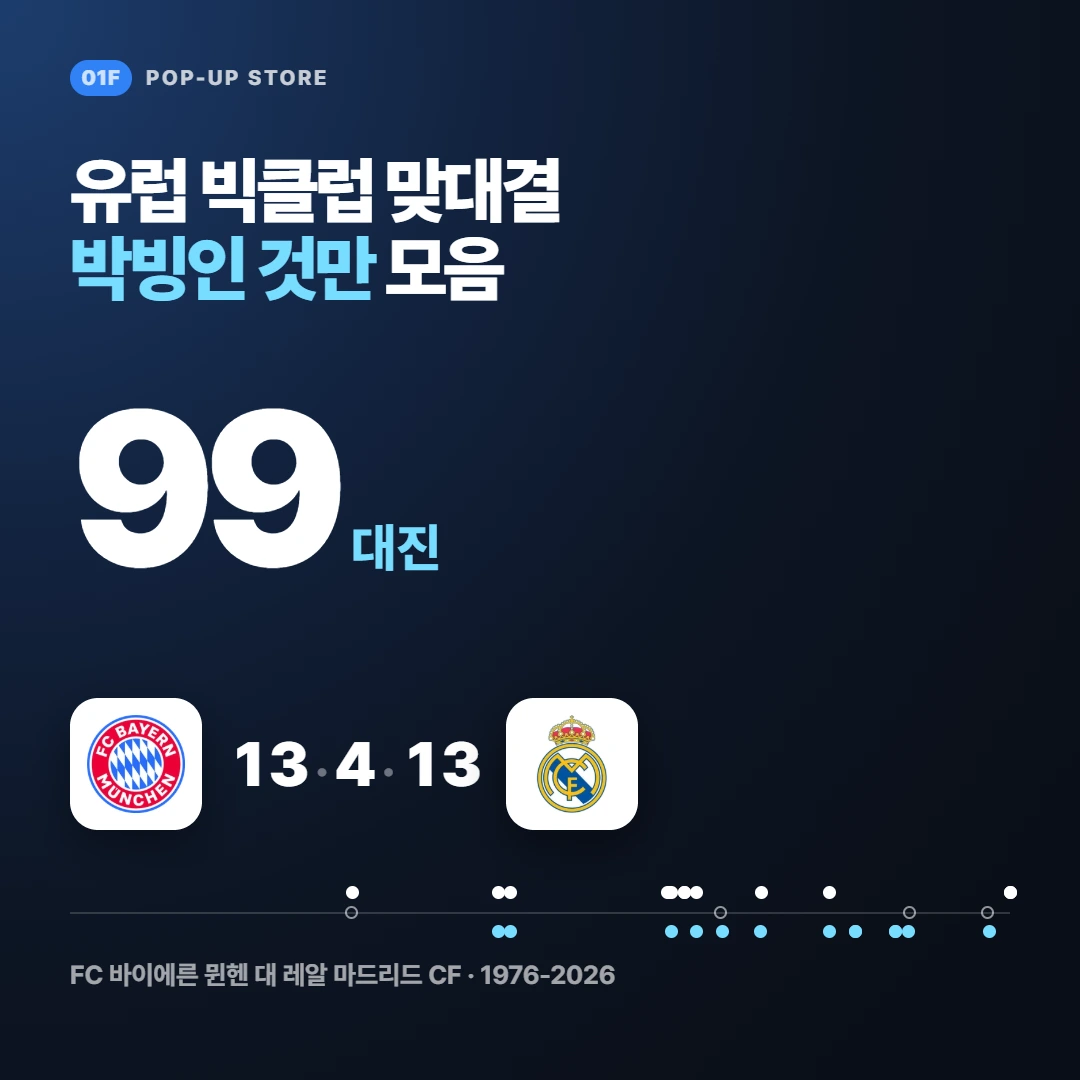
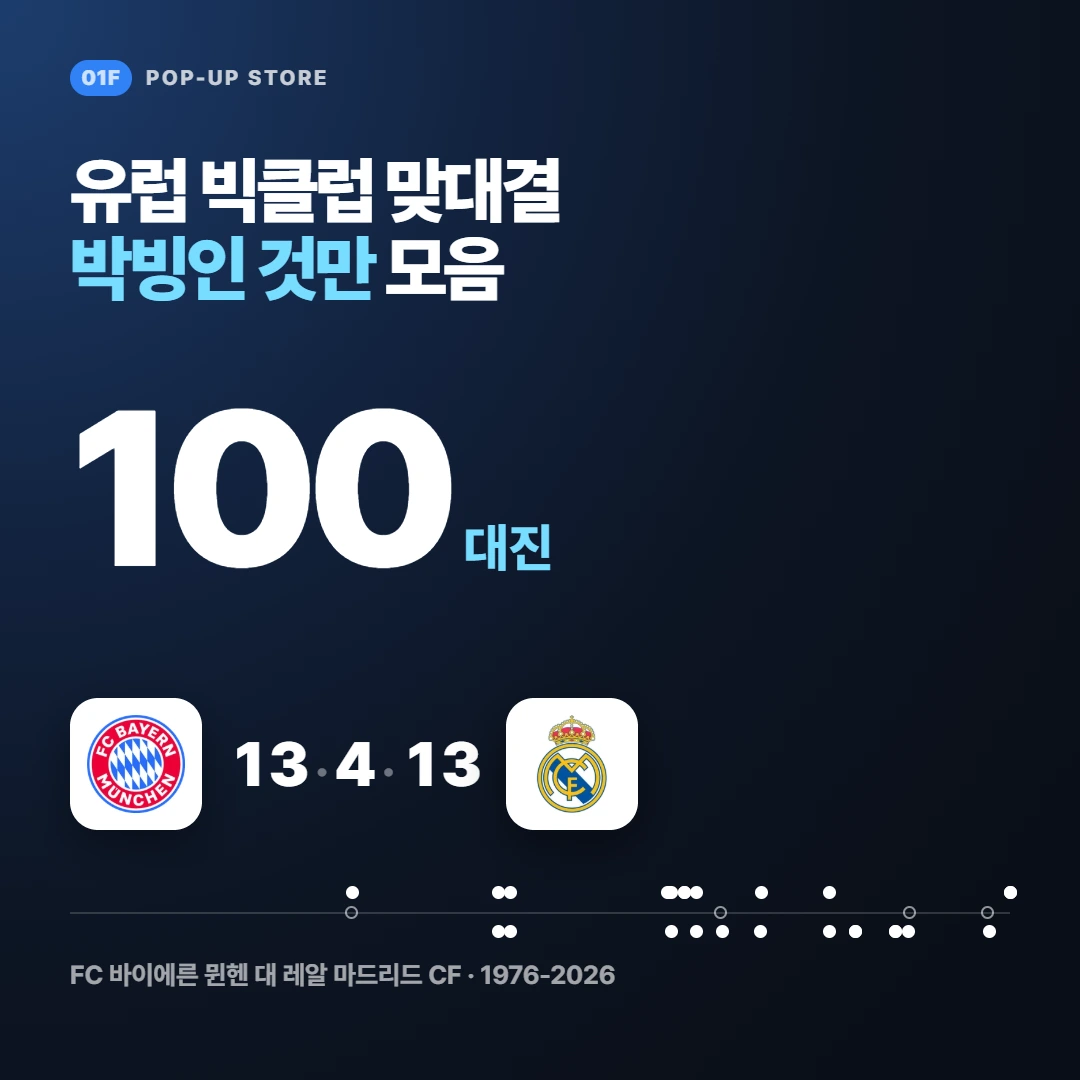
박빙 팝업: 빠졌던 두 구단 표기 교정 재수집, 카드 색을 하나로 통일
- St-Étienne·GNK Dinamo 표기를 찾아 재수집. 셀틱-디나모 자그레브가 들어와 100대진
- 대회별로 갈리던 카드 색을 팝업 하나의 네이비로 통일(한 대진이 여러 대회에 걸쳐 색이 들쭉날쭉했음)
- 썸네일의 연대 막대 점도 양쪽 같은 흰 점으로

diff --git a/src/styles/popup-rivalries.css b/src/styles/popup-rivalries.css
@@ -3,6 +3,10 @@
 .rv-hero .dg-hero__eyebrow span { background: var(--bbfc-blue); }
 .rv-page .dg-section__head p { color: var(--bbfc-blue); }
 
+/* 카드 색(운영자 지시, 2026-09-16): 대회별로 나누지 않고 이 팝업 하나의 색으로 통일한다. */
+.dg-card--rivalry { --dg-night: #0b1526; --dg-accent: #6fb4ff; --dg-soft: #c3d6f0; --dg-line: rgba(180,208,245,.2); border-color: rgba(110,160,235,.3); }
+.dg-card--rivalry::before { background: radial-gradient(circle at 8% 16%, rgba(70,150,255,.3), transparent 38%), radial-gradient(circle at 94% 86%, rgba(255,255,255,.07), transparent 34%), linear-gradient(132deg, #081020 0%, #12294b 46%, #1b3f6e 72%, #0b1526 100%); }
+
 /* 스코어 자리에 놓는 승·무·패 */
 .rv-score strong { gap: 2px; }
 .rv-score strong b { font-variant-numeric: tabular-nums; }

diff --git a/HANDOFF.md b/HANDOFF.md
@@ -15,7 +15,7 @@
 - **Camp Nou 표기 통일 (Claude, 2026-09-15):** 운영자 확정("캄 노우로 해야지, 그럴 거면 원어 고증 발표한 이유가 없다")으로 바르셀로나 축행(제목·태그·FAQ·본문 25곳)과 이강인 축행 1곳의 `캄프 누`를 `캄 노우`로 바꿨다. 글쓰기 검수에 `캄프 누`·`캄노우` 차단 규칙을 추가했고 CLAUDE.md 표기 규칙에 적었다. 아래 옛 기록의 `캄프 누`는 당시 표기다.
 - **밀라노 커플 축행 발행 (Claude, 2026-09-15):** `/pilgrimage/milan-san-siro-couple-fashion-football-travel/`. 제목은 운영자 지시로 검색어형 `밀라노 축구 여행 2박 3일: 산 시로 직관, 숙소, 쇼핑, 나빌리 코스`로 바꿨다(처음 발행 제목 `축구 안 좋아하는 연인과 밀라노 여행…`은 검색되지 않는다는 지적). slug는 발행 후 유지. 같은 날 운영자 지적("소제목이 유치하다, 너무 AI 같다, 영국 매거진 번역체다, 정보가 솔직히 없다")으로 정보 중심 개편: 소제목을 요즘 한국 웹 말투로 바꾸되 약속한 목록을 실제로 채웠다(숙소 3곳, 티켓 판매처·선예매·실명제·아넬로와 색 구역, 올해 바뀐 입구와 역, 경기 전후 식당 4곳 La Pesa·El Patio del Gaucho 사네티·Ribot·노점 파니노, 쇼핑 7곳 Prada Galleria·Marchesi·몬테나폴레오네·Rinascente 7층·10 Corso Como·Inter Store·Milan Store, 아페리티보 5곳 Camparino·Mag Café·Backdoor 43·Rita·El Brellin, 2박 3일 동선). Excelsior Milano는 2018년 폐점이라 제외했다. 지도 핀 23곳. 새 부품 `ol.journey-spots`(번호·이름 링크·주소와 거리·설명 카드)와 축행 본문 직속 `ul` 스타일을 `src/pages/[...path].astro`에 추가했다. 시간 범위는 마크다운 취소선이 되지 않게 `12:00-15:00`처럼 하이픈으로 쓴다. 운영자가 축행을 10편까지 채우기로 하고, AI 검색이 대체하기 쉬운 경기장 근처 호텔 목록형을 버린 뒤 **축구를 안 좋아하는 연인과 가는 축구 여행**(누구와 무슨 이유로 가는 여행인가) 방향을 골랐다(운영자 확정, 2026-09-15: 역사 현장 답사형은 반려). 첫 편 밀라노는 첫날 동행인의 패션 거리(갈레리아 1913 프라다 첫 매장·캄파리노 1915·마르케시·콰드릴라테로·팔라초 모란도 CNMI 허브, 2026 패션위크 9/22~28), 경기일 낮 바 루체, 밤 산 시로(실명 티켓·쿠르바 피하기·2026-27 공사로 7~10번 입구 폐쇄·M1 로토 권장·M5 종점·트램 16·파니노 콘 살라멜라·박물관 6번 게이트), 셋째 날 나빌리오 그란데로 짰다. 숙소 3곳(Meliá Milano 로토·Hotel VIU Milan 모누멘탈레 M5 직통·Senato Hotel Milano 패션 거리)은 공식 채널로 주소·역 거리를 확인했고, 호텔 사진은 받을 수 있던 Senato 공식 사진만 쓰고 나머지 둘은 숙소 주변·경기장 사진으로 역할을 밝혔다. 아레나 치비카 ARCHIVE NOTE로 페어스컵 본선 편과 연결, 그란데 인테르·미야오 안나 인테르·토리노 축행으로 역링크. Leaflet 지도 핀 14곳, UGC 브이로그 The Bello Bros(O-0ITAaEkFE). 자산 스크립트 `scripts/build-milan-san-siro-couple-travel-assets.mjs`, 화면 검수 `scripts/qa-milan-couple-travel.mjs`. 축행 공개 글은 8편이며 목표 10편까지 두 편 남았다. 다음 후보 도시는 같은 방향(동행인의 도시 + 경기 하루)으로 운영자와 정한다.
 - **배포 중단 3건과 원인 (Claude, 2026-09-16):** 운영자가 "홈페이지 난 안 보이는데"라고 해 확인한 결과 프로덕션이 `2e64412`에 멈춰 있었다. GitHub Actions `Scheduled deploy`가 `46c79b8`·`b6c2924`·`d5e898d` 세 번 연속 실패했고, 실패 지점은 `Verify production deployment`였다. 배포 훅 호출까지는 성공하므로 Cloudflare Pages 빌드 자체가 깨진 것이다. 원인은 `46c79b8`에서 `functions/api/goat/_shared.js`에 붙인 `with { type: 'json' }`다. Node 24에서 로컬 GOAT 검수 스크립트를 되살리려고 넣었는데 Cloudflare Pages Functions 번들러가 이 import 속성을 처리하지 못한다. `ad57036`에서 되돌려 배포가 정상화됐고(`bbingefc.com` 홈·팝업관·팝업 페이지 200 확인), `scripts/test-goat-validation.mjs`는 Node 24에서 실행되지 않는 원래 상태로 돌아갔다. **functions/ 아래 파일에는 Cloudflare Workers 런타임이 지원하지 않는 최신 문법을 넣지 않는다. 로컬 스크립트 편의를 위해 배포 경로의 파일을 고치지 않는다.** 배포가 멈췄는지는 `https://bbinge-fc.pages.dev/deploy.json`의 commit과 최신 커밋을 대조해 확인한다. 같은 확인에서 홈 최근 입고의 NEW 배지가 안 뜨던 것도 찾았다. `isNewlyPublished`는 `pubDate`가 미래면 배지를 달지 않는데 팝업 발행 시각을 빌드 시점보다 뒤로 적어 둔 탓이었다(`d5e898d`에서 교정).
-- **팝업관 세 번째 팝업 「유럽 해외축구 빅클럽간 맞대결 역대전적 모음(박빙인 것만, 2026년 버전)」 (Claude, 2026-09-16):** `/popup/big-club-rivalries/`, 제목은 운영자 확정 문구 그대로다(`.Zip`과 ㄷㄷ 숫자를 붙이자고 제안했으나 운영자가 원안으로 확정). 운영자와 규칙을 먼저 세우고 들어갔다. **강팀 분류(운영자 확정):** 축구사 이래 역사적 강팀이면서 현대에도 가치가 우수한 구단. 잉글랜드 8(아스널·첼시·리버풀·맨유·맨시티·토트넘·리즈·에버턴), 스페인 5, 이탈리아 7(아탈란타·파르마 포함), 독일 6, 프랑스 6, 포르투갈 3, 네덜란드 3, 스코틀랜드 2, 튀르키예 2, 벨기에 2, 그리스 2, 우크라이나 2, 러시아 3(운영자 확정으로 남김), 세르비아·체코·크로아티아 각 1. **규칙:** 유럽 대항전(유러피언컵·챔스, UEFA컵·유로파, 컵위너스컵) 전 시즌 맞대결만 세고 국내 경기는 세지 않는다(UEFA 기록 밖). 맞대결 6경기 이상 + 승패 차 1 이내 + 득실 차가 맞대결 수보다 작을 것. 8경기 이상은 카드, 6~7경기는 표. 승부차기는 UEFA 기록대로 무승부. 인터시티스 페어스컵·컨퍼런스 리그 제외. 컷은 8경기(51개)와 6경기(99개)를 놓고 운영자가 6경기로 내리되 층을 나누는 쪽을 골랐다. **결과:** 박빙 99대진, 맞대결 814경기, 45개 구단. 대표 대진은 FC 바이에른 뮌헨 30경기 13승 4무 13패 레알 마드리드 CF(48:49, 1976-2026)로 유럽 대항전 최다 맞대결이면서 가장 반반이다. **연대 막대(운영자 확정, 새 시각 문법):** 1955-2026 가로축에 맞대결을 점으로 찍고 위 칸은 왼쪽 팀 승, 아래 칸은 오른쪽 팀 승, 가운데 줄은 무승부다. 결승 경기는 점을 키운다. 둔기론의 흰 막대, 역전극의 열세 빗금에 이어지는 세 번째 문법이다. 처음에는 왼쪽 팀 승리를 흰 점, 오른쪽 팀 승리를 하늘색 점으로 했는데 운영자 지적("둘 다 박빙인데 바이언쪽만 색이 진하다")으로 **양쪽을 같은 흰 점으로 통일**했다. 어느 팀이 이겼는지는 위아래 위치가 말하므로 색으로 또 가르면 한쪽이 세 보인다. 같은 지적을 확인하다 카드의 `기간`이 51년으로 나오던 것도 고쳤다(첫 맞대결에서 마지막까지 지난 햇수로 계산해 1976-2026은 50년, 서두 문장과 일치). **파일:** `scripts/fetch-rivalries-sources.mjs`(UEFA 전 시즌 사웹, 빅클럽 쌍만 저장) → `src/data/popup/rivalries-sources.json`, 문장 `scripts/build-rivalries-assets.mjs`(45개), 가공 `src/data/popup/rivalries.ts`, 컴포넌트 `RivalryCard`·`RivalryTimeline`·`RivalryTable`, 스타일 `popup-rivalries.css`, 썸네일 `scripts/build-rivalries-thumbnail.mjs`(임시 제작, 운영자 썸네일이 오면 교체), 검수 `scripts/qa-rivalries.mjs`(380/1440, 연대 막대 점 수 = 승+무+패, 화면에서 규칙 재검산). 팝업관 목록·홈 최근 입고에 카드 추가. **미해결:** AS 생테티엔과 GNK 디나모 자그레브는 UEFA 기록에서 그 영문 표기로 잡히지 않아 수집에서 빠졌다(`missingClubs`). 두 팀 모두 6경기 이상 대진이 있을 수 있어 표기를 찾아 다시 넣을지 운영자 확인 대기. 스타드 드 랭스는 4경기 이상 만난 상대가 없어 구조적으로 등장하지 않는다.
+- **팝업관 세 번째 팝업 「유럽 해외축구 빅클럽간 맞대결 역대전적 모음(박빙인 것만, 2026년 버전)」 (Claude, 2026-09-16):** `/popup/big-club-rivalries/`, 제목은 운영자 확정 문구 그대로다(`.Zip`과 ㄷㄷ 숫자를 붙이자고 제안했으나 운영자가 원안으로 확정). 운영자와 규칙을 먼저 세우고 들어갔다. **강팀 분류(운영자 확정):** 축구사 이래 역사적 강팀이면서 현대에도 가치가 우수한 구단. 잉글랜드 8(아스널·첼시·리버풀·맨유·맨시티·토트넘·리즈·에버턴), 스페인 5, 이탈리아 7(아탈란타·파르마 포함), 독일 6, 프랑스 6, 포르투갈 3, 네덜란드 3, 스코틀랜드 2, 튀르키예 2, 벨기에 2, 그리스 2, 우크라이나 2, 러시아 3(운영자 확정으로 남김), 세르비아·체코·크로아티아 각 1. **규칙:** 유럽 대항전(유러피언컵·챔스, UEFA컵·유로파, 컵위너스컵) 전 시즌 맞대결만 세고 국내 경기는 세지 않는다(UEFA 기록 밖). 맞대결 6경기 이상 + 승패 차 1 이내 + 득실 차가 맞대결 수보다 작을 것. 8경기 이상은 카드, 6~7경기는 표. 승부차기는 UEFA 기록대로 무승부. 인터시티스 페어스컵·컨퍼런스 리그 제외. 컷은 8경기(51개)와 6경기(99개)를 놓고 운영자가 6경기로 내리되 층을 나누는 쪽을 골랐다. **결과:** 박빙 99대진, 맞대결 814경기, 45개 구단. 대표 대진은 FC 바이에른 뮌헨 30경기 13승 4무 13패 레알 마드리드 CF(48:49, 1976-2026)로 유럽 대항전 최다 맞대결이면서 가장 반반이다. **연대 막대(운영자 확정, 새 시각 문법):** 1955-2026 가로축에 맞대결을 점으로 찍고 위 칸은 왼쪽 팀 승, 아래 칸은 오른쪽 팀 승, 가운데 줄은 무승부다. 결승 경기는 점을 키운다. 둔기론의 흰 막대, 역전극의 열세 빗금에 이어지는 세 번째 문법이다. 처음에는 왼쪽 팀 승리를 흰 점, 오른쪽 팀 승리를 하늘색 점으로 했는데 운영자 지적("둘 다 박빙인데 바이언쪽만 색이 진하다")으로 **양쪽을 같은 흰 점으로 통일**했다. 어느 팀이 이겼는지는 위아래 위치가 말하므로 색으로 또 가르면 한쪽이 세 보인다. 같은 지적을 확인하다 카드의 `기간`이 51년으로 나오던 것도 고쳤다(첫 맞대결에서 마지막까지 지난 햇수로 계산해 1976-2026은 50년, 서두 문장과 일치). **파일:** `scripts/fetch-rivalries-sources.mjs`(UEFA 전 시즌 사웹, 빅클럽 쌍만 저장) → `src/data/popup/rivalries-sources.json`, 문장 `scripts/build-rivalries-assets.mjs`(45개), 가공 `src/data/popup/rivalries.ts`, 컴포넌트 `RivalryCard`·`RivalryTimeline`·`RivalryTable`, 스타일 `popup-rivalries.css`, 썸네일 `scripts/build-rivalries-thumbnail.mjs`(임시 제작, 운영자 썸네일이 오면 교체), 검수 `scripts/qa-rivalries.mjs`(380/1440, 연대 막대 점 수 = 승+무+패, 화면에서 규칙 재검산). 팝업관 목록·홈 최근 입고에 카드 추가. **표기 교정 재수집(같은 날, 운영자 지시):** 빠졌던 두 구단의 UEFA 표기를 찾아 다시 돌렸다. `St Etienne` → `St-Étienne`(하이픈과 악센트), `Dinamo Zagreb` → `GNK Dinamo`. `missingClubs` 0이 됐고 셀틱 FC 3승 1무 3패 GNK 디나모 자그레브(7경기, 9:9, 1963-2024)가 새로 들어와 **박빙 100대진**(카드 51, 표 49)이 됐다. AS 생테티엔은 이제 인식되지만 6경기 이상 박빙 대진이 없어 등장하지 않는다. **카드 색 통일(운영자 지시):** 처음에는 그 대진에서 가장 많이 만난 대회의 색을 따라 카드가 챔스 미드나이트·유로파 오렌지·컵위너스컵 청록으로 갈렸는데, 한 대진이 여러 대회에 걸쳐 있어 같은 기획 안에서 색이 들쭉날쭉했다. `.dg-card--rivalry` 하나(짙은 네이비·블루 강조)로 통일했다. 대회별 색은 역전극처럼 대회가 편성 축인 팝업에만 쓴다. 스타드 드 랭스는 4경기 이상 만난 상대가 없어 구조적으로 등장하지 않는다.
 - **팝업관 두 번째 팝업 「유럽 대항전 역전극 모음.Zip」 (Claude, 2026-09-16):** `/popup/european-comebacks/`, 제목(운영자 확정) `이스탄불의 기적부터 안필드까지: 유럽 대항전 역전극 모음.Zip(무려 N경기 ㄷㄷ)`, N=58. 운영자 결정: 범위 UEFA 공식 기록 전체 시즌, 유러피언컵·챔스 + UEFA컵·유로파 + 컵위너스컵 포함, 단판은 3골 차. 기준: 합계 대역전 = 1차전을 3골 차 이상으로 지고 대결 통과(49건), 단판 대역전 = 한 경기에서 3골 차 이상 뒤지다 승리(연장 포함, 단판 결승은 승부차기 승리 포함, 9경기). 제외 6건: 몰수 판정으로 열세·역전이 생긴 PSG-스테아우아 1997, 엘프스보리-트란스 2001, 디나모 부쿠레슈티-리베레츠 2009, 셀틱-레기아 2014 / 재경기 기록이 UEFA 데이터에 없는 1958-59 KB-샬케, 1964-65 구르니크-두클라. UEFA 데이터의 차전 번호가 날짜와 뒤바뀐 대결이 있어 1차전 열세는 날짜순 첫 경기로 다시 계산한다. 편성: 대표 카드 이스탄불(2004-05 결승)·안필드(2018-19 4강) → 합계 대역전 카드(유러피언컵·챔스 본선, UEFA컵·유로파·컵위너스컵 8강 이상, 4골 차 이상) + 그 외 더보기 표 26건 → 단판 대역전 카드. 카드 왼쪽이 뒤집은 팀, 타임라인은 지고 있던 구간(합계 2차전은 1차전 열세부터)을 빗금으로 칠하고 뒤집은 팀 골 흰 막대·상대 골 빈 점, 지고 있던 적이 있는 팀의 동점골 `동점`·앞서는 골 `역전`. 카드 색은 대회별로 나눈다(운영자 지시, 2026-09-16 교체): 유러피언컵·챔스 미드나이트, UEFA컵·UEFA 유로파 리그는 유로파의 검정 바탕·오렌지(`.dg-card--uel`), 유러피언 컵위너스컵은 대회 상징색인 청록(`.dg-card--cwc`). 처음의 잉크 한 가지 색은 쓰지 않는다. 합계 대역전 「그 외 더보기」도 같은 지시로 한 표에서 대회별 세 표(`aggregateTables`)로 나눠 각자 자기 대회 색 띠를 갖는다. 문구는 둔기론과 같은 형식으로 `이런 기록이 챔스서만 3경기`·`유로파서만 18경기`·`컵위너스컵서만 5경기 더 있음 ㄷㄷ`이다. 데이터 `scripts/fetch-comebacks-sources.mjs`(UEFA 경기 목록 전 시즌 + 대상 경기 득점 기록, 단판 후보는 두 팀 모두 3골 이상 경기 429개를 득점 순서로 판정) → `src/data/popup/comebacks-sources.json`, 한글명 `comebacks-names.json`(구단 84·득점자 184, 카드에는 성만), 문장 `scripts/build-comebacks-assets.mjs`(UEFA 로고), 썸네일 `scripts/build-comebacks-thumbnail.mjs`(안필드 2차전 타임라인), 검수 `scripts/qa-comebacks.mjs`(380/1440, 타임라인 표시 수 = 차전 스코어). 팝업관 목록·홈 최근 입고에 카드 추가.
 - **1층 팝업관 개관 · 첫 팝업 「바이언 둔기론」 (Claude, 2026-09-16):** `/popup/`, `/popup/bayern-dungi/`. 운영자 결정 과정: H/L은 9층 영화관(영상)이라 부적합, 도서실 대회관 분데스리가 칸은 1963-64~2026-27 시즌 기록 자리라 부적합, 새 구단관은 아카이브 탭·색·층 안내·홈 진열창을 모두 건드려 제외 → 층·카테고리 구조를 바꾸지 않는 **1층 팝업관(기간 한정 기획전)** 으로 확정. `store.ts` 1층 구역에 팝업관을 추가했다. 같은 날 운영자 지시("팝업 칩 하나 넣고 썸네일 임의로 만들어서 올려")로 홈 로비 줄에 팝업 칩을 넣었다가 운영자 지적("로비는 더 들어올 구역이 없다, 밑의 콘텐츠 란에")으로 빼고 `index.astro`의 최근 입고 피드에 팝업을 일반 카드(1F 팝업관, card.webp)로 넣었고, 공유 썸네일 `og.webp`(1200×630)와 팝업관 목록용 `card.webp`(1080×1080)를 `scripts/build-bayern-dungi-thumbnail.mjs`(미리보기 서버 Pretendard로 Chrome 캡처)로 임시 제작했다. 썸네일은 운영자 결정(2026-09-16)으로 현행 생성물을 그대로 유지한다. 둔기론·역전극 두 팝업 모두 교체하지 않는다. 제목(운영자 확정): `바이에른 뮌헨(바이언) 둔기론: 역대 대승 참사 모음(무려 N경기 ㄷㄷ)`, N은 대회별 경기 수의 덧셈(188 = 분데스리가 116 + UEFA 챔피언스 리그 50 + DFB-포칼 19 + FIFA 클럽 월드컵 2 + DFL-슈퍼컵 1). 둔기론 밈은 본문에서 해명하지 않는다. 이번 편은 승리만. 기준: 독일 구단 상대 4골 차 이상, 타리그 구단 상대 3골 차 이상(챔스 레버쿠젠 3-0 제외). 편성: 대표 카드 2012-13 챔스 4강 바르셀로나 합계 7-0 → 챔스(5대 리그·챔스 우승 경험 구단전은 카드, 토너먼트 1·2차전 합산, 조별리그는 두 경기 모두 이겼을 때만 합산) → 분데스리가(볼프스부르크·레버쿠젠·도르트문트·라이프치히전 카드) → 컵 대회(두 자릿수 골·분데스리가 구단전 카드) → 나머지는 대회별 `그 외 더보기` 접이식 표. 카드는 유러피언컵 대진 카드 구조, 챔스 미드나이트·분데스리가/포칼/슈퍼컵 분데스 빨강·클럽 월드컵 잉크, 경기마다 골 타임라인(바이언 골 흰 막대, 5분 안 3골 이상 `꽈광`, 단독 `꽝`, 실점 빈 점)과 득점자 줄. 데이터: `scripts/fetch-bayern-dungi-sources.mjs`(OpenLigaDB 분데스리가 점수, UEFA 챔스 점수, Wikipedia로 확인한 포칼·클럽 월드컵·슈퍼컵 목록, ESPN 득점 분·득점자, 점수·득점 수 교차 검증) → `src/data/popup/bayern-dungi-sources.json`, 한글명·예외 `bayern-dungi-names.json`(2011-04-17 레버쿠젠전 ESPN 중복 골 1줄 제거), 문장 `scripts/build-bayern-dungi-assets.mjs`(ESPN 로고 WebP). OpenLigaDB 포칼 점수·득점 기록은 오류가 있어 쓰지 않는다. 검수 `scripts/qa-bayern-dungi.mjs`(380/1440, 타임라인 표시 수 = 스코어). 같은 날 운영자 요청("그 외 더보기도 클릭하고 싶게")으로 접힌 줄을 대회 색 띠(챔스 미드나이트·분데스 빨강)로 바꾸고 `이런 기록이 챔스서만/분데스서만/컵 대회서만 N경기 더 있음 ㄷㄷ`(운영자 문구), 안에 든 가장 큰 점수 3경기 칩, 상대 문장 겹침(+N팀), 흰 `펼치기 +` 버튼(접힌 동안 살짝 튀는 애니메이션, 동작 줄이기 설정 시 정지)을 넣었다. 이어서 운영자 지시로 층별 안내 1층 행을 `split`으로 바꿔 `안내 데스크`·`팝업관` 버튼을 따로 주고, 상단 메뉴에 `팝업관`(NEW)을 카테고리처럼 추가했다(가나다순으로 축행 뒤·H/L 앞). 메뉴가 한 칸 늘어 1024-1279px에서 검색창과 겹쳐, 그 구간만 메뉴 간격 9px·글자 13.5px·검색창 132px(placeholder 숨김)로 줄였다. 팝업관 목록 썸네일을 168px로 키우고 제목을 키웠다. 같은 지시로 시즌 서가·읽기 동선 1955-56의 04·05 순서를 1956-57과 같게 `본선 → 4강 → 결승 H/L → 득점 순위 → 베스트 11 → 발롱도르`로 맞췄다(순서는 발행 시간이 아니라 `reading-routes.ts` 배열 순서). 다음 편 후보: 참사 편.
 - **축떡 발행: 원정 다득점 데이터 편 (Claude, 2026-09-15):** `/football-made-easy/away-goals-rule-abolition-uefa-data/`, 제목 `원정 다득점 규정은 정말 불공평했나: 56년치 UEFA 대결 8,415건으로 본 폐지 이유`. 운영자 기준("AI 단순 요약문에 죽는 주제는 안 된다")에 따라 규정 설명형 후보를 버리고, UEFA 공식 경기 기록을 직접 짝지어 센 데이터형으로 골랐다. 핵심: 원정골 결정 698건이 1차전 홈팀 349 · 2차전 홈팀 349, 연장전 원정골 35건 전부 원정팀 통과이지만 연장전 542건 전체는 2차전 홈팀 58.7%, UEFA 폐지 수치 재현, 폐지 뒤 옛 규정이면 결과가 달랐을 30건(레알-시티 2023-24, 레알-알레띠 2024-25, 갈라타사라이-유벤투스 2025-26). 연구 6편(Page & Page 2007, Eugster 외 2011, Geenens·Cuddihy 2018, Bahamonde-Birke 2023, Yildirim·Bilman 2025 두 편) 대조. 표지·카드는 Commons 2015 PSG 1-1 첼시 16강 1차전(CC BY-SA 2.0, `scripts/build-away-goals-assets.mjs`). 집계 방법·수치 원장은 `docs/editorial/away-goals-rule-data-audit.md`, 화면 검수 `scripts/qa-away-goals.mjs`(380/1440). 같은 날 운영자 지적("원고 밀도가 아쉽다", 말투가 아니라 밀도)으로 같은 데이터에서 층을 더 팠다: 규정 연표(동전 던지기→원정골→승부차기, 첫 승부차기도 혼베드), 흔한 스코어 조합·라운드별 비율·원정골로 끝난 UEFA컵 결승 3번과 주요 대결 표(밀란-인테르 2002-03 같은 산 시로), 1차전 스코어별 통과율 표(홈 1-1 28.0%→폐지 뒤 45.5%), 5대 리그 대 기타 리그(전체 77.4% vs 원정골 결정 49.0%), 구단 기록, `보여주는 것 / 보여주지 못하는 것` 범위표. 본문 텍스트 약 1.3만 자→2만 자대.
